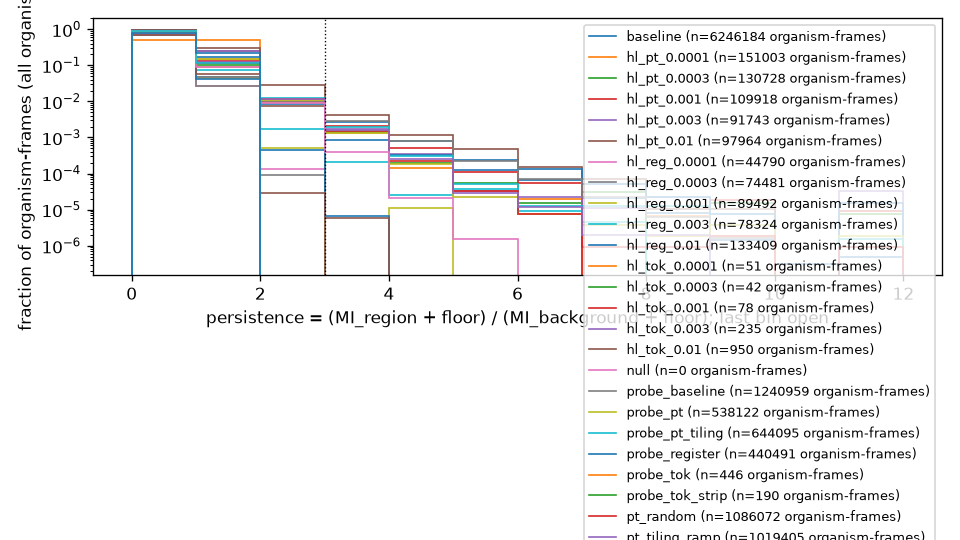
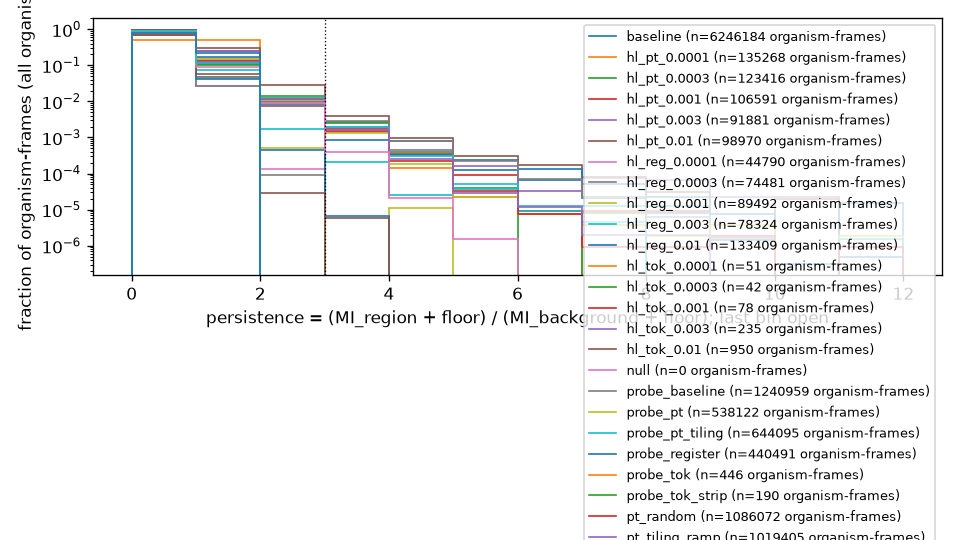
Round 3 write-up: open-band half-lives
Claude-Session: https://claude.ai/code/session_01KjQMssHXdCXbNQURKaQW9d

diff --git a/results/round3/plots/summary.md b/results/round3/plots/summary.md
@@ -3,11 +3,11 @@
 | experiment | seeds | frames | mean SCCs/frame | mean core cells | max SCC | organisms created (total) | organisms lived >= 1 window | frac frames maxP>3 | mean persistent SCCs/frame | mean persistent cells/frame | long-lived organisms with maxP>3 | mean parasites/frame | mean bg stability |
 |---|---|---|---|---|---|---|---|---|---|---|---|---|---|
 | baseline | 50 | 50050 | 124.8 | 8823 | 13063 | 12981759 | 2044350 | 0.204 | 0.49 | 3.4 | 25629 | 138.6 | 0.24 |
-| hl_pt_0.0001 | 10 | 2010 | 75.1 | 10997 | 14329 | 337354 | 41715 | 0.057 | 0.12 | 4.8 | 257 | 121.3 | 0.33 |
-| hl_pt_0.0003 | 10 | 2010 | 65.0 | 11620 | 14427 | 301840 | 35933 | 0.056 | 0.12 | 8.4 | 302 | 120.2 | 0.33 |
-| hl_pt_0.001 | 10 | 2010 | 54.7 | 12296 | 14095 | 274188 | 26512 | 0.071 | 0.15 | 6.9 | 264 | 143.7 | 0.24 |
-| hl_pt_0.003 | 10 | 2010 | 45.6 | 12686 | 13956 | 239896 | 19132 | 0.059 | 0.10 | 1.0 | 186 | 163.6 | 0.15 |
-| hl_pt_0.01 | 10 | 2010 | 48.7 | 12644 | 13535 | 268039 | 17959 | 0.177 | 0.30 | 1.4 | 330 | 189.8 | 0.05 |
+| hl_pt_0.0001 | 10 | 2010 | 67.3 | 11679 | 14391 | 305128 | 35721 | 0.051 | 0.10 | 7.4 | 255 | 127.3 | 0.30 |
+| hl_pt_0.0003 | 10 | 2010 | 61.4 | 11875 | 14398 | 290847 | 31938 | 0.065 | 0.18 | 13.9 | 338 | 135.6 | 0.30 |
+| hl_pt_0.001 | 10 | 2010 | 53.0 | 12381 | 14220 | 262473 | 25439 | 0.061 | 0.11 | 4.3 | 217 | 144.9 | 0.24 |
+| hl_pt_0.003 | 10 | 2010 | 45.7 | 12686 | 14079 | 238156 | 18754 | 0.059 | 0.12 | 0.9 | 190 | 164.4 | 0.15 |
+| hl_pt_0.01 | 10 | 2010 | 49.2 | 12619 | 13450 | 268785 | 17970 | 0.165 | 0.27 | 1.2 | 282 | 188.7 | 0.05 |
 | hl_reg_0.0001 | 10 | 2010 | 22.3 | 286 | 4416 | 46604 | 17432 | 0.000 | 0.00 | 0.0 | 0 | 8.9 | 0.80 |
 | hl_reg_0.0003 | 10 | 2010 | 37.1 | 397 | 4600 | 76592 | 30635 | 0.000 | 0.00 | 0.0 | 0 | 14.4 | 0.69 |
 | hl_reg_0.001 | 10 | 2010 | 44.5 | 437 | 8807 | 105907 | 39813 | 0.000 | 0.00 | 0.0 | 0 | 16.4 | 0.58 |
@@ -55,11 +55,11 @@ Per seed: the noise rate at the last frame that still had an SCC of the given si
 | experiment | organisms | median lifetime (ticks) | p90 | max | still alive at end | max size ever |
 |---|---|---|---|---|---|---|
 | baseline | 2044350 | 100 | 180 | 17380 | 423 | 13063 |
-| hl_pt_0.0001 | 41715 | 100 | 200 | 11380 | 64 | 14371 |
-| hl_pt_0.0003 | 35933 | 100 | 200 | 18780 | 49 | 14436 |
-| hl_pt_0.001 | 26512 | 100 | 180 | 15380 | 34 | 14274 |
-| hl_pt_0.003 | 19132 | 100 | 160 | 19840 | 22 | 14027 |
-| hl_pt_0.01 | 17959 | 100 | 160 | 19940 | 20 | 13620 |
+| hl_pt_0.0001 | 35721 | 100 | 200 | 15740 | 72 | 14500 |
+| hl_pt_0.0003 | 31938 | 100 | 180 | 19180 | 115 | 14426 |
+| hl_pt_0.001 | 25439 | 100 | 180 | 17440 | 34 | 14230 |
+| hl_pt_0.003 | 18754 | 100 | 160 | 19980 | 22 | 14146 |
+| hl_pt_0.01 | 17970 | 100 | 160 | 19980 | 20 | 13570 |
 | hl_reg_0.0001 | 17432 | 120 | 340 | 9100 | 121 | 4416 |
 | hl_reg_0.0003 | 30635 | 120 | 340 | 4820 | 167 | 4600 |
 | hl_reg_0.001 | 39813 | 120 | 280 | 3460 | 160 | 8807 |
@@ -91,11 +91,11 @@ Core-cell density: fraction of all SCC-core cells (over all frames) per x band. 
 | experiment | core cells in darkest quarter | second | third | brightest quarter | size-weighted mean x of organisms | mean x of small organisms (<20 cells) |
 |---|---|---|---|---|---|---|
 | baseline | 0.037 | 0.224 | 0.405 | 0.334 | 0.654 | 0.431 |
-| hl_pt_0.0001 | 0.107 | 0.320 | 0.314 | 0.260 | 0.561 | 0.366 |
-| hl_pt_0.0003 | 0.104 | 0.317 | 0.317 | 0.262 | 0.562 | 0.361 |
-| hl_pt_0.001 | 0.094 | 0.299 | 0.314 | 0.293 | 0.582 | 0.286 |
-| hl_pt_0.003 | 0.086 | 0.295 | 0.315 | 0.304 | 0.590 | 0.238 |
-| hl_pt_0.01 | 0.081 | 0.296 | 0.315 | 0.309 | 0.594 | 0.236 |
+| hl_pt_0.0001 | 0.106 | 0.308 | 0.311 | 0.275 | 0.566 | 0.318 |
+| hl_pt_0.0003 | 0.102 | 0.305 | 0.311 | 0.281 | 0.573 | 0.303 |
+| hl_pt_0.001 | 0.093 | 0.298 | 0.315 | 0.293 | 0.583 | 0.278 |
+| hl_pt_0.003 | 0.086 | 0.295 | 0.315 | 0.304 | 0.590 | 0.242 |
+| hl_pt_0.01 | 0.081 | 0.295 | 0.316 | 0.308 | 0.594 | 0.240 |
 | hl_reg_0.0001 | 0.056 | 0.190 | 0.265 | 0.489 | 0.723 | 0.472 |
 | hl_reg_0.0003 | 0.052 | 0.205 | 0.343 | 0.400 | 0.674 | 0.517 |
 | hl_reg_0.001 | 0.056 | 0.240 | 0.377 | 0.327 | 0.640 | 0.560 |
@@ -125,11 +125,11 @@ Core-cell density: fraction of all SCC-core cells (over all frames) per x band. 
 | experiment | organism-frames | median ratio | frac ratio > 3 | rows with ratio > 3 and size >= 10 | rows with ratio > 3 and size >= 100 |
 |---|---|---|---|---|---|
 | baseline | 972399 | 0.18 | 0.000 | 0 | 0 |
-| hl_pt_0.0001 | 36391 | 0.38 | 0.000 | 0 | 0 |
-| hl_pt_0.0003 | 35979 | 0.35 | 0.000 | 0 | 0 |
-| hl_pt_0.001 | 35932 | 0.26 | 0.000 | 0 | 0 |
-| hl_pt_0.003 | 36203 | 0.18 | 0.000 | 0 | 0 |
-| hl_pt_0.01 | 36816 | 0.09 | 0.000 | 0 | 0 |
+| hl_pt_0.0001 | 35956 | 0.36 | 0.000 | 0 | 0 |
+| hl_pt_0.0003 | 35698 | 0.32 | 0.000 | 0 | 0 |
+| hl_pt_0.001 | 35802 | 0.26 | 0.000 | 0 | 0 |
+| hl_pt_0.003 | 36194 | 0.19 | 0.000 | 0 | 0 |
+| hl_pt_0.01 | 36872 | 0.09 | 0.000 | 0 | 0 |
 | hl_reg_0.0001 | 18677 | 0.60 | 0.000 | 0 | 0 |
 | hl_reg_0.0003 | 27319 | 0.55 | 0.000 | 0 | 0 |
 | hl_reg_0.001 | 32306 | 0.48 | 0.000 | 0 | 0 |
@@ -171,27 +171,37 @@ Core-cell density: fraction of all SCC-core cells (over all frames) per x band. 
 
 | structure | noise | half-life (ticks) | intact at end of run |
 |---|---|---|---|
-| tok | 0.0001 | 100 | 0.011 |
-| tok | 0.0003 | 100 | 0.004 |
-| tok | 0.001 | 100 | 0.003 |
-| tok | 0.003 | 100 | 0.003 |
-| tok | 0.01 | 100 | 0.005 |
+| pt band | 0.0001 | 100 | 0.042 |
+| pt band | 0.0003 | 100 | 0.006 |
+| pt band | 0.001 | 100 | 0.007 |
+| pt band | 0.003 | 100 | 0.010 |
+| pt band | 0.01 | 100 | 0.017 |
+| reg band | 0.0001 | 800 | 0.070 |
+| reg band | 0.0003 | 800 | 0.026 |
+| reg band | 0.001 | 400 | 0.020 |
+| reg band | 0.003 | 200 | 0.009 |
+| reg band | 0.01 | 100 | 0.005 |
+| tok band | 0.0001 | 100 | 0.011 |
+| tok band | 0.0003 | 100 | 0.004 |
+| tok band | 0.001 | 100 | 0.003 |
+| tok band | 0.003 | 100 | 0.003 |
+| tok band | 0.01 | 100 | 0.005 |
 
 ## Run totals (mean per seed)
 
 | experiment | executed | repairs | deaths | starved | mutations | elapsed s |
 |---|---|---|---|---|---|---|
 | baseline | 1.55e+09 | 5.67e+08 | 9.58e+07 | 3.35e+07 | 1.64e+06 | 82.3 |
-| hl_pt_0.0001 | 3.16e+08 | 1.05e+08 | 1.11e+07 | 3.78e+06 | 3.27e+04 | 17.8 |
-| hl_pt_0.0003 | 3.16e+08 | 1.04e+08 | 1.15e+07 | 4.01e+06 | 9.83e+04 | 17.5 |
-| hl_pt_0.001 | 3.16e+08 | 1.04e+08 | 9.42e+06 | 3.07e+06 | 3.28e+05 | 16.9 |
-| hl_pt_0.003 | 3.16e+08 | 9.26e+07 | 7.71e+06 | 2.21e+06 | 9.83e+05 | 16.2 |
-| hl_pt_0.01 | 3.14e+08 | 5.71e+07 | 6.13e+06 | 1.1e+06 | 3.28e+06 | 16.9 |
-| hl_reg_0.0001 | 3.21e+08 | 2.32e+07 | 2.34e+06 | 4.68e+05 | 3.28e+04 | 11.3 |
-| hl_reg_0.0003 | 3.21e+08 | 2.77e+07 | 2.91e+06 | 6.19e+05 | 9.83e+04 | 18.8 |
+| hl_pt_0.0001 | 3.16e+08 | 1.09e+08 | 1.09e+07 | 3.77e+06 | 3.28e+04 | 17.8 |
+| hl_pt_0.0003 | 3.16e+08 | 1.07e+08 | 1.08e+07 | 3.74e+06 | 9.84e+04 | 17.1 |
+| hl_pt_0.001 | 3.16e+08 | 1.05e+08 | 9.48e+06 | 3.13e+06 | 3.28e+05 | 16.5 |
+| hl_pt_0.003 | 3.16e+08 | 9.31e+07 | 7.74e+06 | 2.23e+06 | 9.83e+05 | 16.1 |
+| hl_pt_0.01 | 3.14e+08 | 5.67e+07 | 6.09e+06 | 1.09e+06 | 3.28e+06 | 16.4 |
+| hl_reg_0.0001 | 3.21e+08 | 2.32e+07 | 2.34e+06 | 4.68e+05 | 3.28e+04 | 11.4 |
+| hl_reg_0.0003 | 3.21e+08 | 2.77e+07 | 2.91e+06 | 6.19e+05 | 9.83e+04 | 12.4 |
 | hl_reg_0.001 | 3.2e+08 | 2.35e+07 | 3.15e+06 | 5.96e+05 | 3.28e+05 | 12.7 |
-| hl_reg_0.003 | 3.19e+08 | 1.29e+07 | 3.22e+06 | 4.63e+05 | 9.83e+05 | 12.5 |
-| hl_reg_0.01 | 3.15e+08 | 6.31e+06 | 4.08e+06 | 5.31e+05 | 3.28e+06 | 12.9 |
+| hl_reg_0.003 | 3.19e+08 | 1.29e+07 | 3.22e+06 | 4.63e+05 | 9.83e+05 | 12.2 |
+| hl_reg_0.01 | 3.15e+08 | 6.31e+06 | 4.08e+06 | 5.31e+05 | 3.28e+06 | 12.7 |
 | hl_tok_0.0001 | 5.48e+07 | 8.66e+05 | 3.61e+06 | 4.84e+04 | 3.27e+04 | 5.9 |
 | hl_tok_0.0003 | 5.63e+07 | 1.16e+06 | 2.91e+06 | 5.32e+04 | 9.84e+04 | 6.0 |
 | hl_tok_0.001 | 5.81e+07 | 1.68e+06 | 1.95e+06 | 6.19e+04 | 3.27e+05 | 5.9 |

diff --git a/results/round3/README.md b/results/round3/README.md
@@ -163,9 +163,25 @@ soup) or a frozen one (register, where an overwritten byte is simply never touch
 again — and then it is not "restored" either, it stays overwritten). The probe is the
 direct operationalisation of the plan's definition, and it reads zero for all of them.
 
-**Half-lives** (`hl_*`): re-measured with `seed_intact` (fraction of the injected
-bytes still in place); table in `plots/summary.md` and `plots/halflife_vs_noise.png`.
-*(filled in after the re-run.)*
+**Half-lives** (`hl_*`, `seed_intact` = fraction of the injected bytes still in place,
+mean of 10 seeds; 8-column band at the bright edge of the gradient, so the band has open
+edges; `plots/halflife_vs_noise.png`):
+
+| noise | register band (neighbourhood) | pass-through band (neighbourhood) | pass-through strips (token) |
+|---|---|---|---|
+| 10⁻⁴ | 800 ticks (7 % intact at 20k) | 100 (4 %) | 100 (1 %) |
+| 3 × 10⁻⁴ | 800 (3 %) | 100 (1 %) | 100 (0.4 %) |
+| 10⁻³ | 400 (2 %) | 100 (1 %) | 100 (0.3 %) |
+| 3 × 10⁻³ | 200 (1 %) | 100 (1 %) | 100 (0.3 %) |
+| 10⁻² | 100 (0.5 %) | 100 (2 %) | 100 (0.5 %) |
+
+The register band is the only one whose lifetime depends on noise at all (800 → 100
+ticks over two decades), and even at 10⁻⁴ it is half gone in 800 ticks — the round-2
+vitality of 1.5 × 10⁻⁴ restated as a decay curve. Both pass-through bands lose half
+their bytes within the first 100 ticks at every noise level: their relays read from the
+column beyond the band's edge, so the band is a conveyor fed by background, and noise is
+irrelevant. The closed versions (`hlc_*`, full width at uniform sun, below) remove the
+edge and measure the belts' own response to noise.
 
 
 ### Phase B — the token execution model (`tok_*`, `hl_tok_*`, `hlc_tok_*`, `probe_tok*`)
